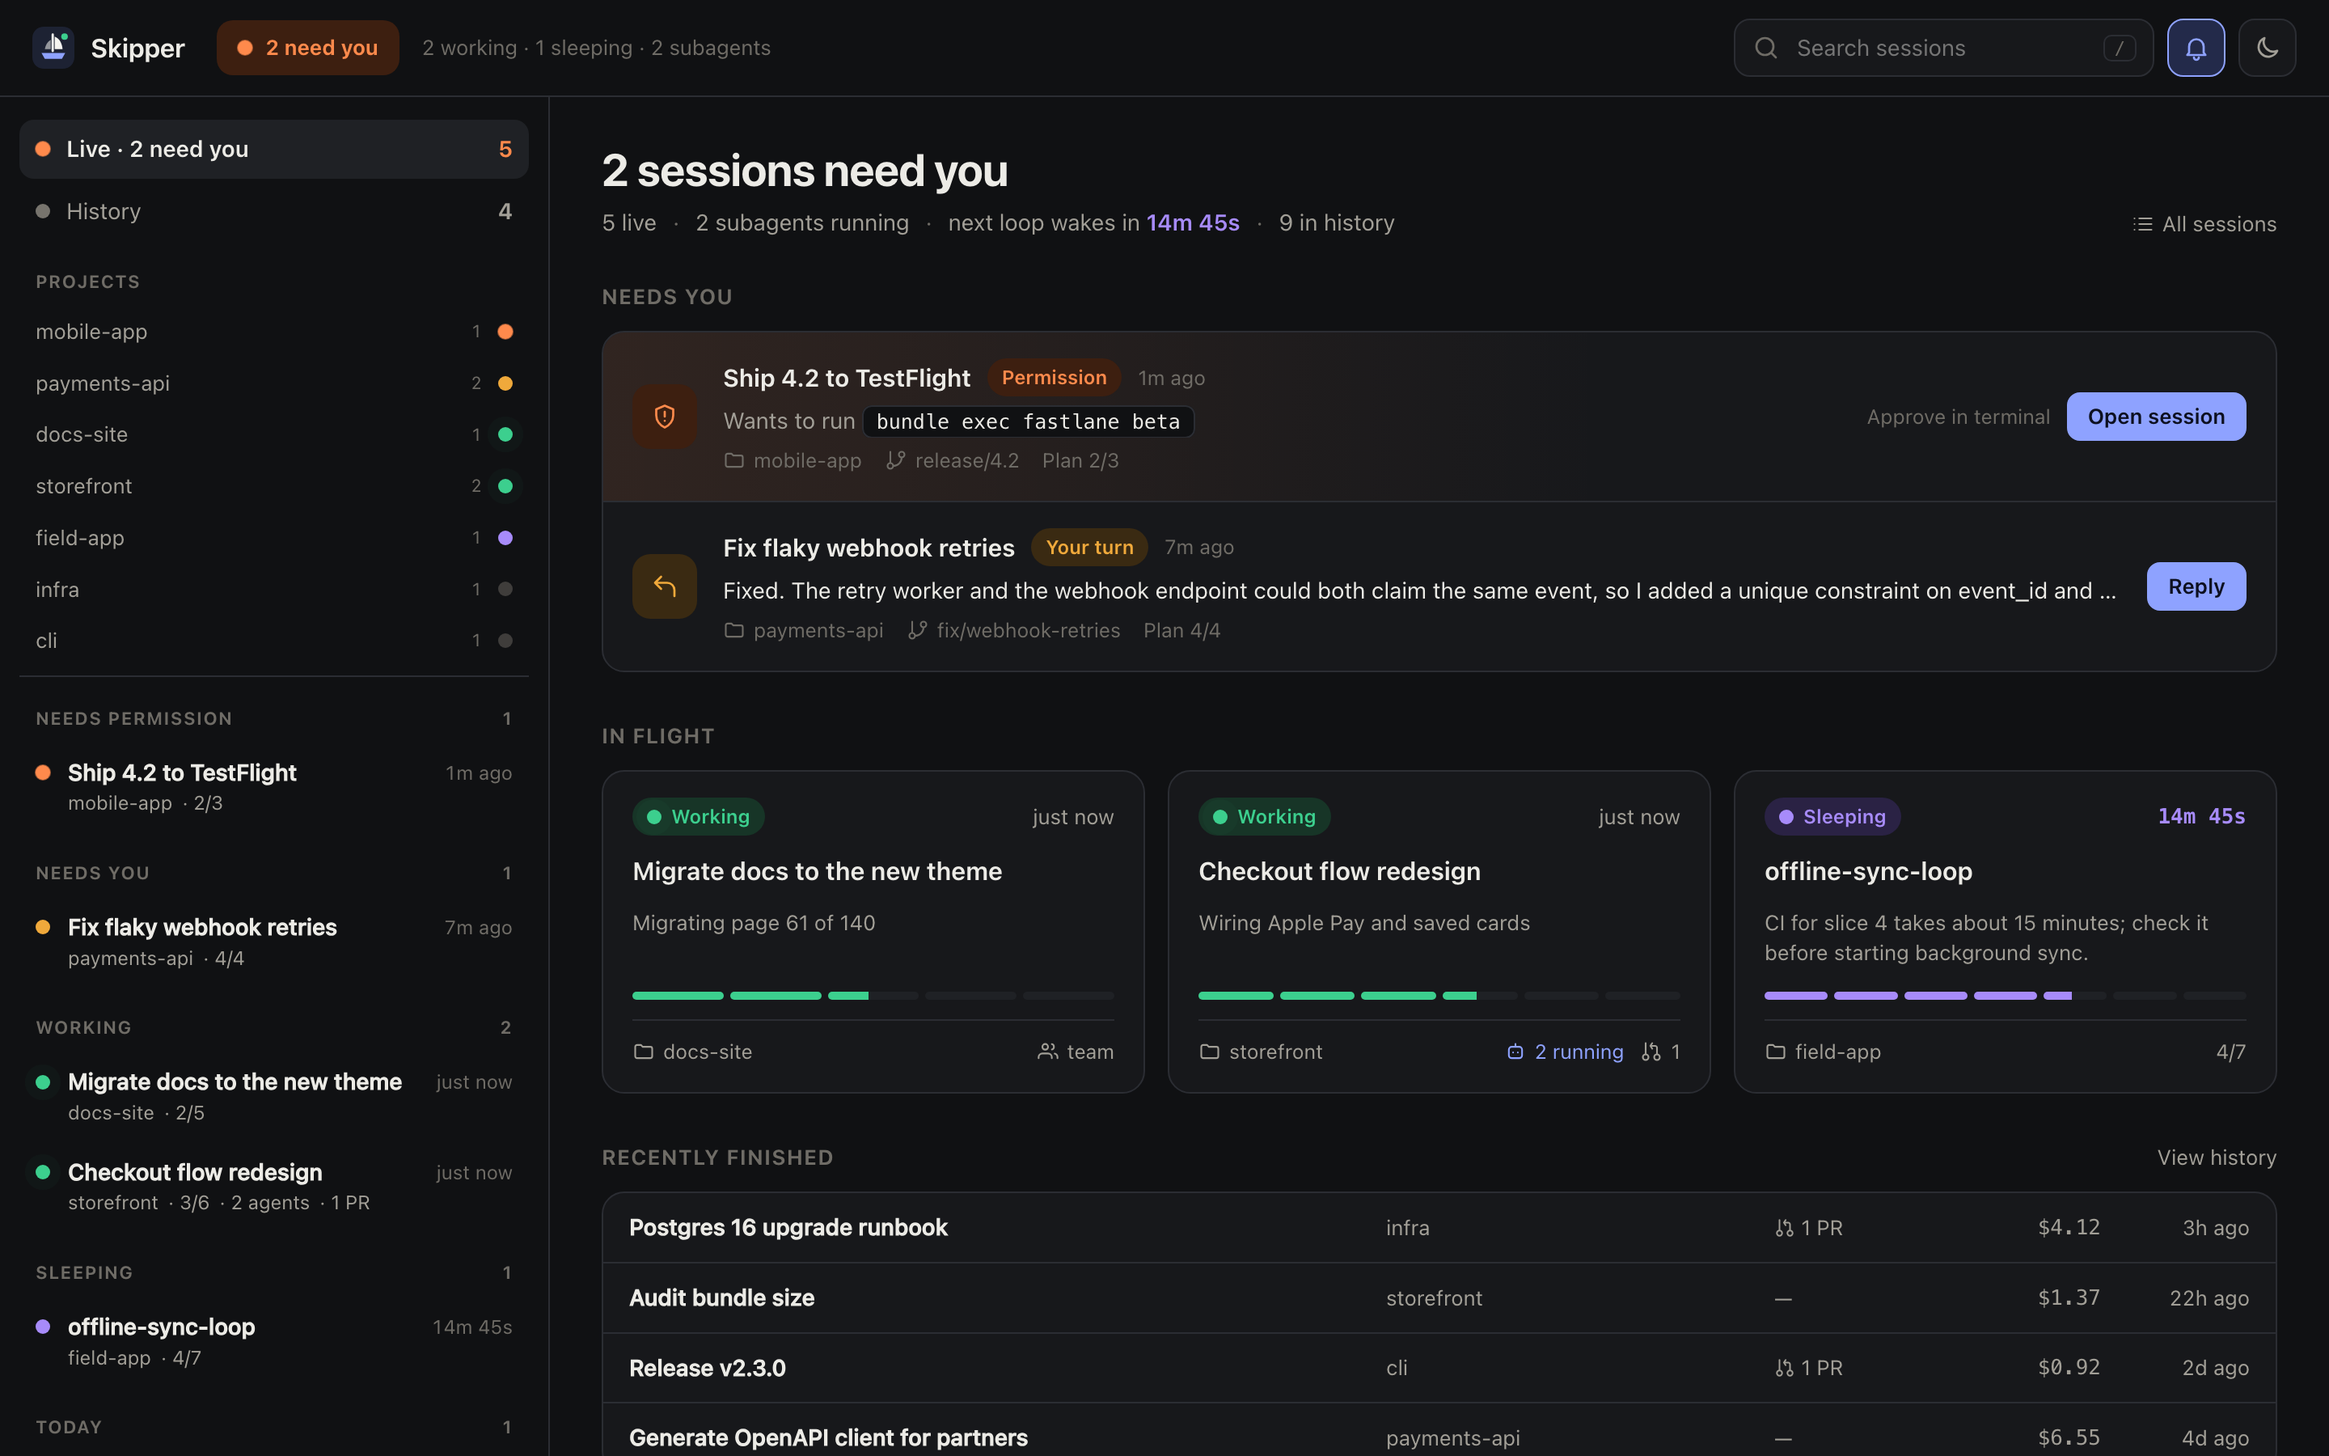
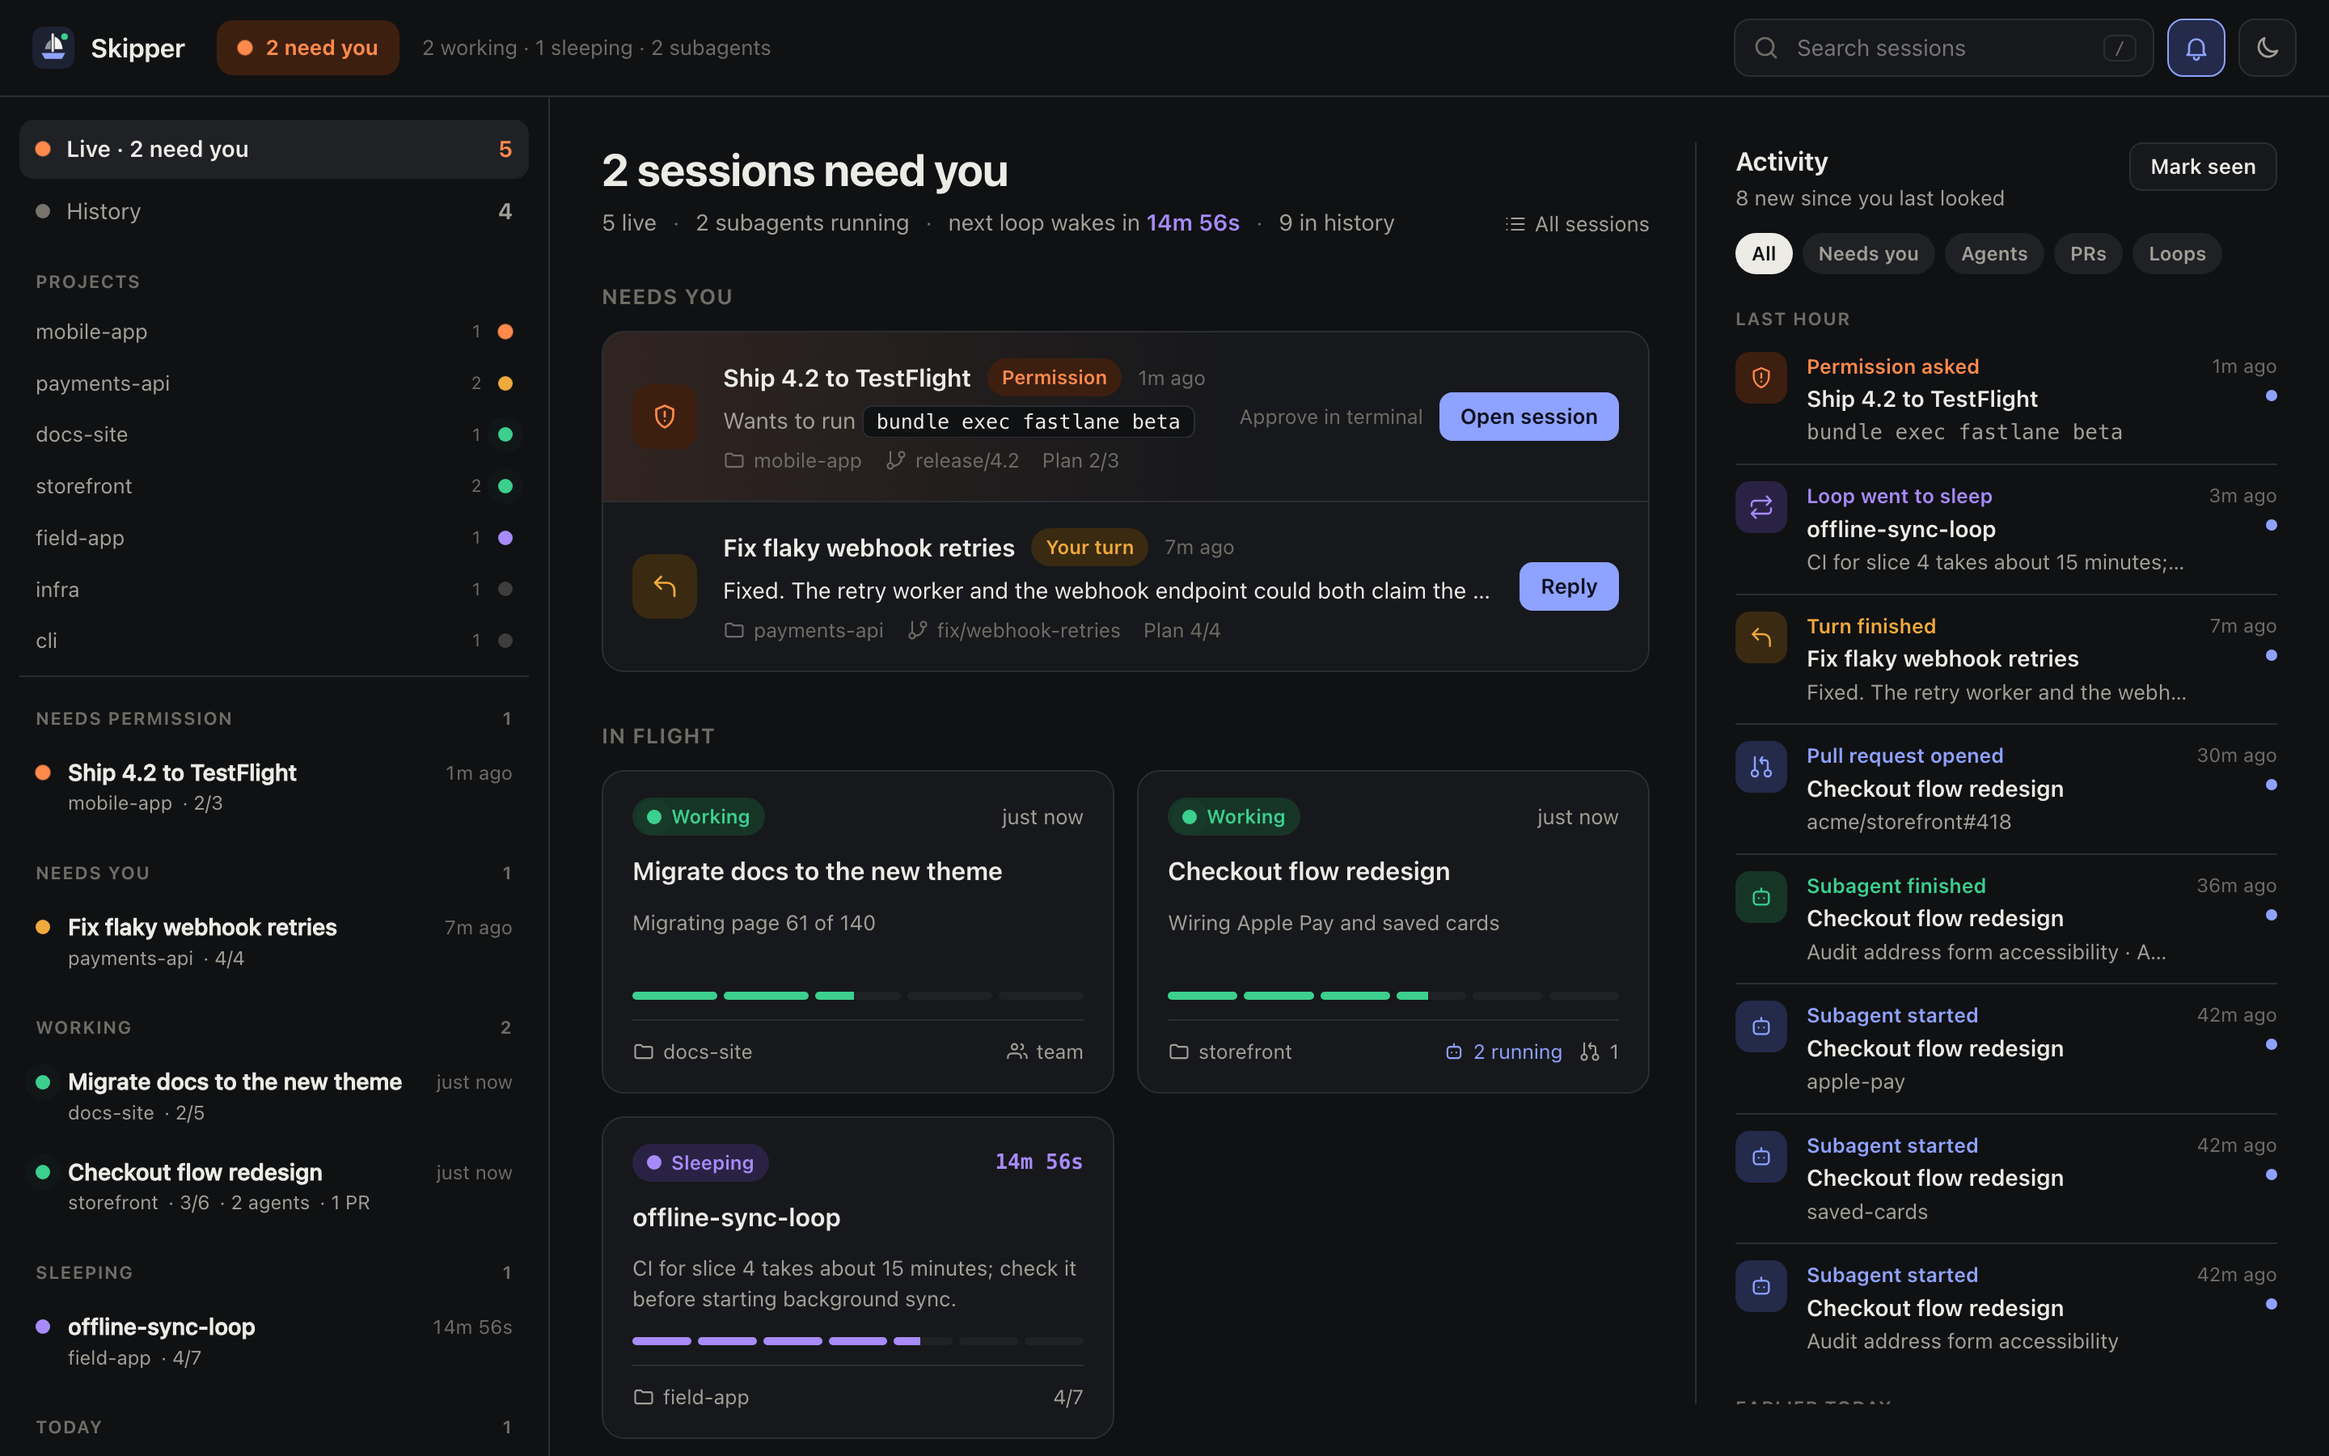
Show the activity feed on the overview and as a phone tab
- Activity column next to the overview, grouped by time, with filters for
  Needs you, Agents, PRs and Loops
- Unread markers since you last looked, with Mark seen
- Repeated loop ticks collapse into one row
- Phones get an Activity tab with an unread badge
- Refreshed screenshots

diff --git a/public/app.js b/public/app.js
@@ -10,6 +10,9 @@ const state = {
   claudeDir: '',
   filter: 'live',
   project: null,
+  activity: [],
+  activityFilter: 'all',
+  activitySeen: 0,
   query: '',
   sound: false,
   turns: true,
@@ -154,6 +157,7 @@ async function load() {
   renderHooksNote();
   notifyChanges(data.sessions);
   state.sessions = data.sessions;
+  state.activity = (await getJson('/api/activity?limit=150').catch(() => null))?.items ?? state.activity;
   const id = route().id;
   if (id) {
     const res = await fetch(`/api/sessions/${encodeURIComponent(id)}`, { cache: 'no-store' });
@@ -333,6 +337,7 @@ function route() {
   const match = hash.match(/^#\/s\/([0-9a-f-]{36})$/i);
   if (match) return { name: 'session', id: match[1] };
   if (hash === '#/sessions') return { name: 'list' };
+  if (hash === '#/activity') return { name: 'activity' };
   return { name: 'overview' };
 }
 
@@ -511,6 +516,92 @@ function sessionCard(s) {
   );
 }
 
+const ACTIVITY_FILTERS = [
+  ['all', 'All', null],
+  ['needs', 'Needs you', ['permission', 'question', 'waiting', 'turn']],
+  ['agents', 'Agents', ['agent-start', 'agent-done', 'agent-failed', 'workflow']],
+  ['prs', 'PRs', ['pr', 'artifact']],
+  ['loops', 'Loops', ['loop']],
+];
+
+const ACTIVITY_STYLE = {
+  permission: ['permission', 'shield'],
+  question: ['waiting', 'reply'],
+  waiting: ['waiting', 'reply'],
+  turn: ['waiting', 'reply'],
+  loop: ['sleeping', 'loop'],
+  'agent-start': ['accent', 'bot'],
+  'agent-done': ['working', 'bot'],
+  'agent-failed': ['danger', 'bot'],
+  workflow: ['working', 'flow'],
+  pr: ['accent', 'pr'],
+  artifact: ['accent', 'link'],
+  ended: ['ended', 'check'],
+};
+
+// Consecutive loop ticks of one session collapse into a single row.
+function groupActivity(items) {
+  const out = [];
+  for (const item of items) {
+    const prev = out[out.length - 1];
+    if (prev && item.kind === 'loop' && prev.kind === 'loop' && prev.sessionId === item.sessionId) {
+      prev.count += 1;
+      prev.firstAt = item.at;
+      continue;
+    }
+    out.push({ ...item, count: 1, firstAt: item.at });
+  }
+  return out;
+}
+
+function dayBucket(at) {
+  const t = now();
+  if (t - at < 3_600_000) return 'Last hour';
+  const today = new Date(t).setHours(0, 0, 0, 0);
+  if (at >= today) return 'Earlier today';
+  if (at >= today - DAY) return 'Yesterday';
+  return 'Earlier';
+}
+
+function renderActivity({ limit = 40 } = {}) {
+  const filter = ACTIVITY_FILTERS.find(([id]) => id === state.activityFilter) || ACTIVITY_FILTERS[0];
+  const items = groupActivity(state.activity.filter((i) => (!filter[2] || filter[2].includes(i.kind)) && (!state.project || i.project === state.project))).slice(0, limit);
+  const unread = state.activity.filter((i) => i.at > state.activitySeen).length;
+  const rows = [];
+  let bucket = null;
+  for (const item of items) {
+    const b = dayBucket(item.at);
+    if (b !== bucket) {
+      bucket = b;
+      rows.push(h('div', { class: 'group-label activity-group' }, h('span', {}, b)));
+    }
+    const [tone, iconName] = ACTIVITY_STYLE[item.kind] || ['ended', 'check'];
+    const text = item.count > 1 ? `Loop ran ${item.count} times` : item.text;
+    rows.push(h('a', { class: `activity-item${item.at > state.activitySeen ? ' unread' : ''}`, href: `#/s/${item.sessionId}` },
+      h('span', { class: `activity-icon tone-${tone}` }, icon(iconName)),
+      h('span', { class: 'activity-body' },
+        h('span', { class: `activity-kind tone-${tone}` }, text),
+        h('span', { class: 'activity-title' }, item.title),
+        item.detail ? h('span', { class: `activity-detail${item.kind === 'permission' && splitAsk(item.detail).command ? ' mono' : ''}` }, item.kind === 'permission' ? splitAsk(item.detail).command || item.detail : plain(item.detail)) : null),
+      h('span', { class: 'activity-when' }, relTime(item.at), item.at > state.activitySeen ? h('i', { class: 'unread-dot', 'aria-label': 'new' }) : null)));
+  }
+  return h('section', { class: 'activity' },
+    h('div', { class: 'activity-head' },
+      h('div', {},
+        h('h2', {}, 'Activity'),
+        h('p', { class: 'muted' }, unread ? `${unread} new since you last looked` : 'You are all caught up')),
+      unread ? h('button', { class: 'btn small', type: 'button', dataset: { activitySeen: '1' } }, 'Mark seen') : null),
+    h('div', { class: 'chips', role: 'tablist', 'aria-label': 'Activity filter' },
+      ACTIVITY_FILTERS.map(([id, label]) => h('button', { type: 'button', role: 'tab', class: 'filter-chip', 'aria-selected': String(filter[0] === id), dataset: { activityFilter: id } }, label))),
+    rows.length ? h('div', { class: 'activity-list' }, rows) : h('p', { class: 'muted empty-activity' }, 'Nothing here yet. Permission prompts, finished turns, subagents and PRs will show up as they happen.'),
+  );
+}
+
+function renderActivityPage() {
+  renderPulse();
+  return h('div', { class: 'activity-page' }, renderActivity({ limit: 120 }));
+}
+
 function renderOverview() {
   const counts = renderPulse();
   if (!state.sessions.length) {
@@ -528,7 +619,7 @@ function renderOverview() {
   const nextWake = live.map((s) => s.loop?.wakeAt).filter((t) => t > now()).sort()[0];
   const needs = queue.length;
 
-  return h('div', { class: 'overview' },
+  return h('div', { class: 'overview-layout' }, h('div', { class: 'overview' },
     h('div', { class: 'page-head' },
       h('div', {},
         h('h1', {}, needs ? `${needs} session${needs > 1 ? 's' : ''} need${needs > 1 ? '' : 's'} you` : live.length ? 'Everything is moving' : 'All quiet'),
@@ -560,8 +651,9 @@ function renderOverview() {
         ),
       )),
     ) : null,
-  );
+  ), h('aside', { class: 'activity-rail', 'aria-label': 'Activity' }, renderActivity({ limit: 40 })));
 }
+
 
 function panel(title, aside, ...body) {
   return h('section', { class: 'panel' }, h('div', { class: 'panel-head' }, h('h2', {}, title), aside), ...body);
@@ -649,13 +741,15 @@ function renderTabbar() {
   const r = route();
   const live = state.sessions.filter((s) => s.live);
   const needs = live.filter((s) => s.state === 'permission' || s.state === 'waiting').length;
-  const active = r.name === 'overview' ? 'needs' : r.name === 'list' ? state.filter : null;
+  const active = r.name === 'overview' ? 'needs' : r.name === 'activity' ? 'activity' : r.name === 'list' ? state.filter : null;
   const tab = (id, href, label, badge, dot) =>
     h('a', { class: 'tab', href, 'aria-current': active === id ? 'page' : null, dataset: { tab: id } },
       badge ? h('span', { class: `tab-badge ${dot}` }, badge) : h('i', { class: `dot ${dot}` }),
       h('span', {}, label));
+  const unread = state.activity.filter((i) => i.at > state.activitySeen).length;
   $('#tabbar').replaceChildren(
     tab('needs', '#/', 'Needs you', needs, needs ? (live.some((s) => s.state === 'permission') ? 'permission' : 'waiting') : 'working'),
+    tab('activity', '#/activity', 'Activity', unread, 'accent'),
     tab('live', '#/sessions', 'Live', null, 'working'),
     tab('history', '#/sessions', 'History', null, 'ended'),
   );
@@ -847,7 +941,7 @@ function render() {
   }
   state.renderPending = false;
   const keepScroll = main.dataset.view === (r.id || r.name) ? main.scrollTop : 0;
-  main.replaceChildren(r.name === 'session' ? renderDetail(state.detail) : renderOverview());
+  main.replaceChildren(r.name === 'session' ? renderDetail(state.detail) : r.name === 'activity' ? renderActivityPage() : renderOverview());
   if (r.name === 'list') renderPulse();
   main.dataset.view = r.id || r.name;
   main.scrollTop = keepScroll;
@@ -1028,6 +1122,19 @@ function focusComposer() {
 function wireActions() {
   const main = $('#main');
   main.addEventListener('click', (event) => {
+    const chip = event.target.closest('[data-activity-filter]');
+    if (chip) {
+      state.activityFilter = chip.dataset.activityFilter;
+      store.set('skipper.activityFilter', state.activityFilter);
+      render();
+      return;
+    }
+    if (event.target.closest('[data-activity-seen]')) {
+      state.activitySeen = now();
+      store.set('skipper.activitySeen', String(state.activitySeen));
+      render();
+      return;
+    }
     const el = event.target.closest('[data-action]');
     if (!el || el.tagName === 'FORM') return;
     const action = el.dataset.action;
@@ -1106,7 +1213,7 @@ function init() {
   wireActions();
   $('#tabbar').addEventListener('click', (event) => {
     const tab = event.target.closest('[data-tab]');
-    if (!tab || tab.dataset.tab === 'needs') return;
+    if (!tab || tab.dataset.tab === 'needs' || tab.dataset.tab === 'activity') return;
     state.filter = tab.dataset.tab;
     store.set('skipper.filter', state.filter);
     if (location.hash === '#/sessions') render();
@@ -1154,6 +1261,13 @@ function init() {
   }, { once: true });
 
   state.filter = store.get('skipper.filter') === 'history' ? 'history' : 'live';
+  state.activitySeen = Number(store.get('skipper.activitySeen')) || 0;
+  if (!state.activitySeen) {
+    // First visit: only the last hour counts as new, not the whole week.
+    state.activitySeen = Date.now() - 3_600_000;
+    store.set('skipper.activitySeen', String(state.activitySeen));
+  }
+  state.activityFilter = store.get('skipper.activityFilter') || 'all';
   $('#sidebar').addEventListener('click', (event) => {
     const tab = event.target.closest('[data-filter]');
     const project = event.target.closest('[data-project]');

diff --git a/public/app.css b/public/app.css
@@ -738,3 +738,46 @@ button.box:hover { border-color: var(--accent); }
   .crumbs { font-size: 14px; }
   .crumbs a { color: var(--muted); min-height: 32px; }
 }
+
+/* ---------- v2: activity feed ---------- */
+.overview-layout { display: grid; grid-template-columns: minmax(0, 1fr) 360px; gap: 28px; align-items: start; }
+.activity-rail { position: sticky; top: 0; max-height: calc(100vh - 120px); overflow-y: auto; padding-left: 24px; border-left: 1px solid var(--border); }
+.activity-head { display: flex; justify-content: space-between; align-items: flex-start; gap: 12px; margin-bottom: 12px; }
+.activity-head h2 { margin: 0; font-size: 16px; letter-spacing: -0.01em; text-transform: none; color: var(--text); font-weight: 650; }
+.activity-head p { margin: 2px 0 0; font-size: 13px; }
+.chips { display: flex; flex-wrap: wrap; gap: 6px; margin-bottom: 6px; }
+.filter-chip { padding: 4px 10px; border-radius: 999px; border: 0; background: var(--surface-2); color: var(--muted); font-size: 12px; font-weight: 600; cursor: pointer; }
+.filter-chip[aria-selected="true"] { background: var(--text); color: var(--bg); }
+.activity-group { margin: 14px 0 2px; }
+.activity-list { display: flex; flex-direction: column; }
+.activity-item { display: grid; grid-template-columns: 32px minmax(0, 1fr) auto; gap: 12px; padding: 10px 0; border-top: 1px solid var(--border); color: var(--text); }
+.activity-group + .activity-item { border-top: 0; }
+.activity-item:hover { text-decoration: none; background: color-mix(in srgb, var(--surface-2) 60%, transparent); }
+.activity-icon { display: grid; place-items: center; width: 32px; height: 32px; border-radius: 9px; background: var(--surface-2); }
+.activity-icon svg { width: 16px; height: 16px; }
+.activity-body { display: flex; flex-direction: column; gap: 1px; min-width: 0; }
+.activity-kind { font-size: 12.5px; font-weight: 600; }
+.activity-title { font-weight: 600; white-space: nowrap; overflow: hidden; text-overflow: ellipsis; }
+.activity-detail { color: var(--muted); font-size: 13px; white-space: nowrap; overflow: hidden; text-overflow: ellipsis; }
+.activity-when { display: flex; flex-direction: column; align-items: flex-end; gap: 6px; color: var(--faint); font-size: 12px; white-space: nowrap; }
+.unread-dot { width: 7px; height: 7px; border-radius: 50%; background: var(--accent); }
+.tone-permission { color: var(--permission); } .activity-icon.tone-permission { background: var(--permission-soft); }
+.tone-waiting { color: var(--waiting); } .activity-icon.tone-waiting { background: var(--waiting-soft); }
+.tone-sleeping { color: var(--sleeping); } .activity-icon.tone-sleeping { background: var(--sleeping-soft); }
+.tone-working { color: var(--working); } .activity-icon.tone-working { background: var(--working-soft); }
+.tone-accent { color: var(--accent); } .activity-icon.tone-accent { background: var(--accent-soft); }
+.tone-danger { color: var(--danger); } .activity-icon.tone-danger { background: color-mix(in srgb, var(--danger) 16%, transparent); }
+.tone-ended { color: var(--muted); }
+.empty-activity { padding: 20px 0; }
+.activity-page { max-width: 720px; }
+.dot.accent { background: var(--accent); }
+
+@media (max-width: 1280px) {
+  .overview-layout { grid-template-columns: minmax(0, 1fr); }
+  .activity-rail { position: static; max-height: none; overflow: visible; padding-left: 0; border-left: 0; border-top: 1px solid var(--border); padding-top: 20px; }
+}
+@media (max-width: 900px) {
+  .activity-rail { display: none; }
+  .tabbar { grid-template-columns: repeat(4, minmax(0, 1fr)); }
+  .tab-badge.accent { background: var(--accent); color: var(--on-accent); }
+}

diff --git a/README.md b/README.md
@@ -25,6 +25,7 @@ Running several Claude Code agents at once is powerful and hard to follow. One t
 - **Subagents.** Background agents with name, model, worktree branch, and when each one last did something.
 - **`/loop` countdowns.** See when a self-paced loop wakes next and why it went to sleep.
 - **Workflows, PRs and artifacts.** Multi-agent workflow runs, linked pull requests and published artifacts, one click away.
+- **Activity feed.** What happened while you were away, across every session: permission prompts, finished turns, loop ticks, subagents, PRs and workflow runs, with unread markers and filters.
 - **Cost and history.** Spend, turns and lines changed for every session, searchable across all your projects.
 - **Permission alerts with sound.** The moment Claude asks to run a command or edit a file, Skipper plays a chime, shows a desktop notification and moves the session to **Needs permission**.
 
